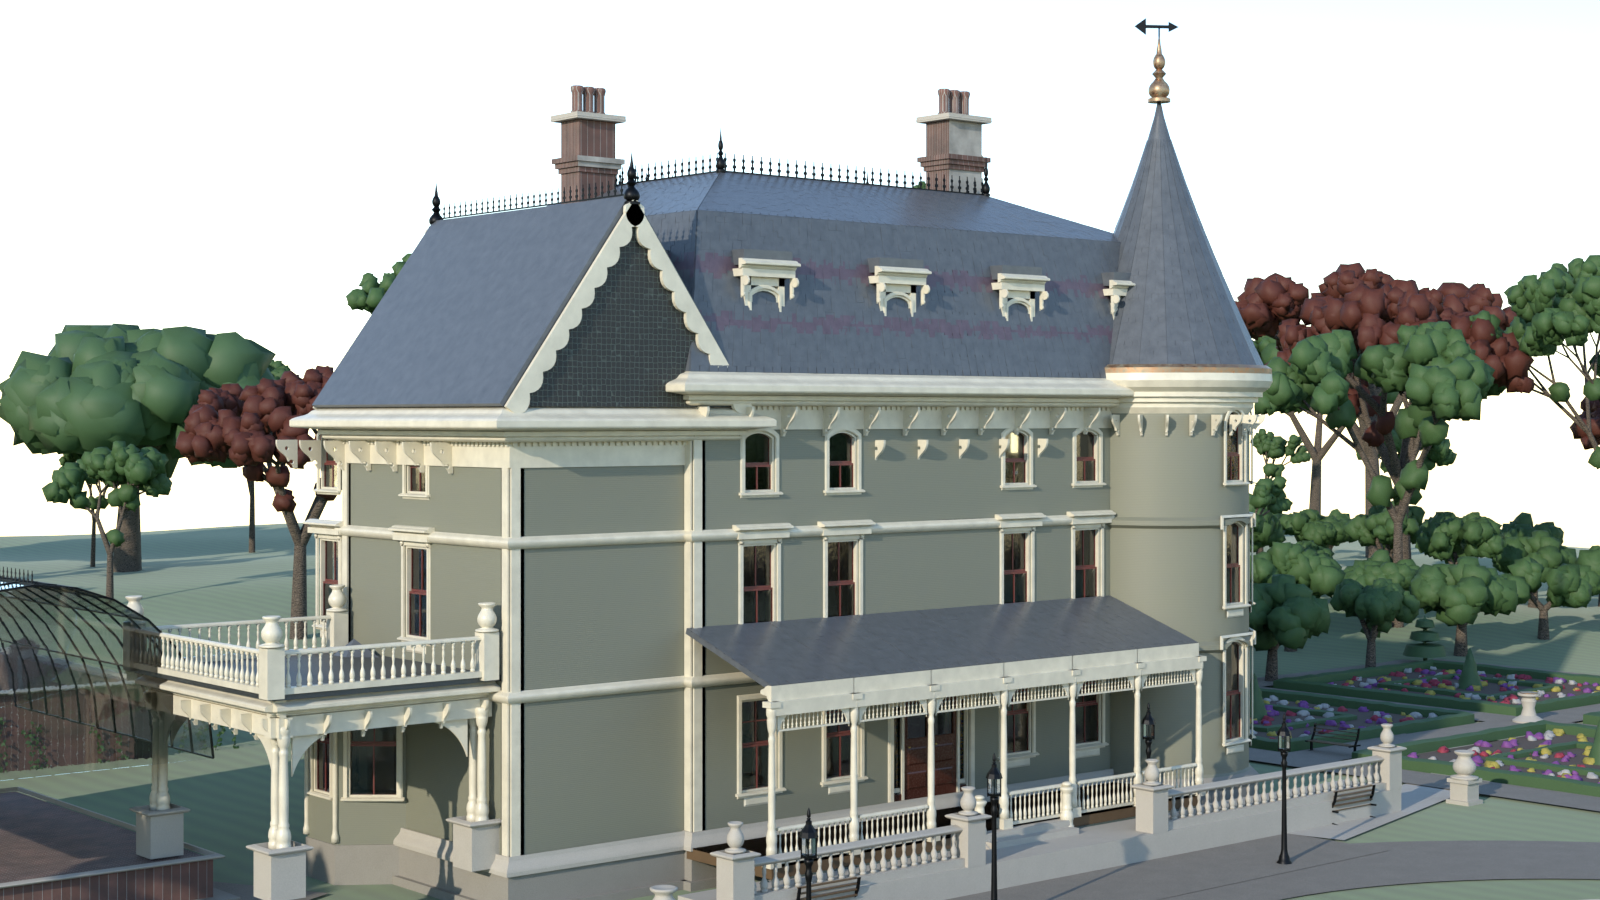
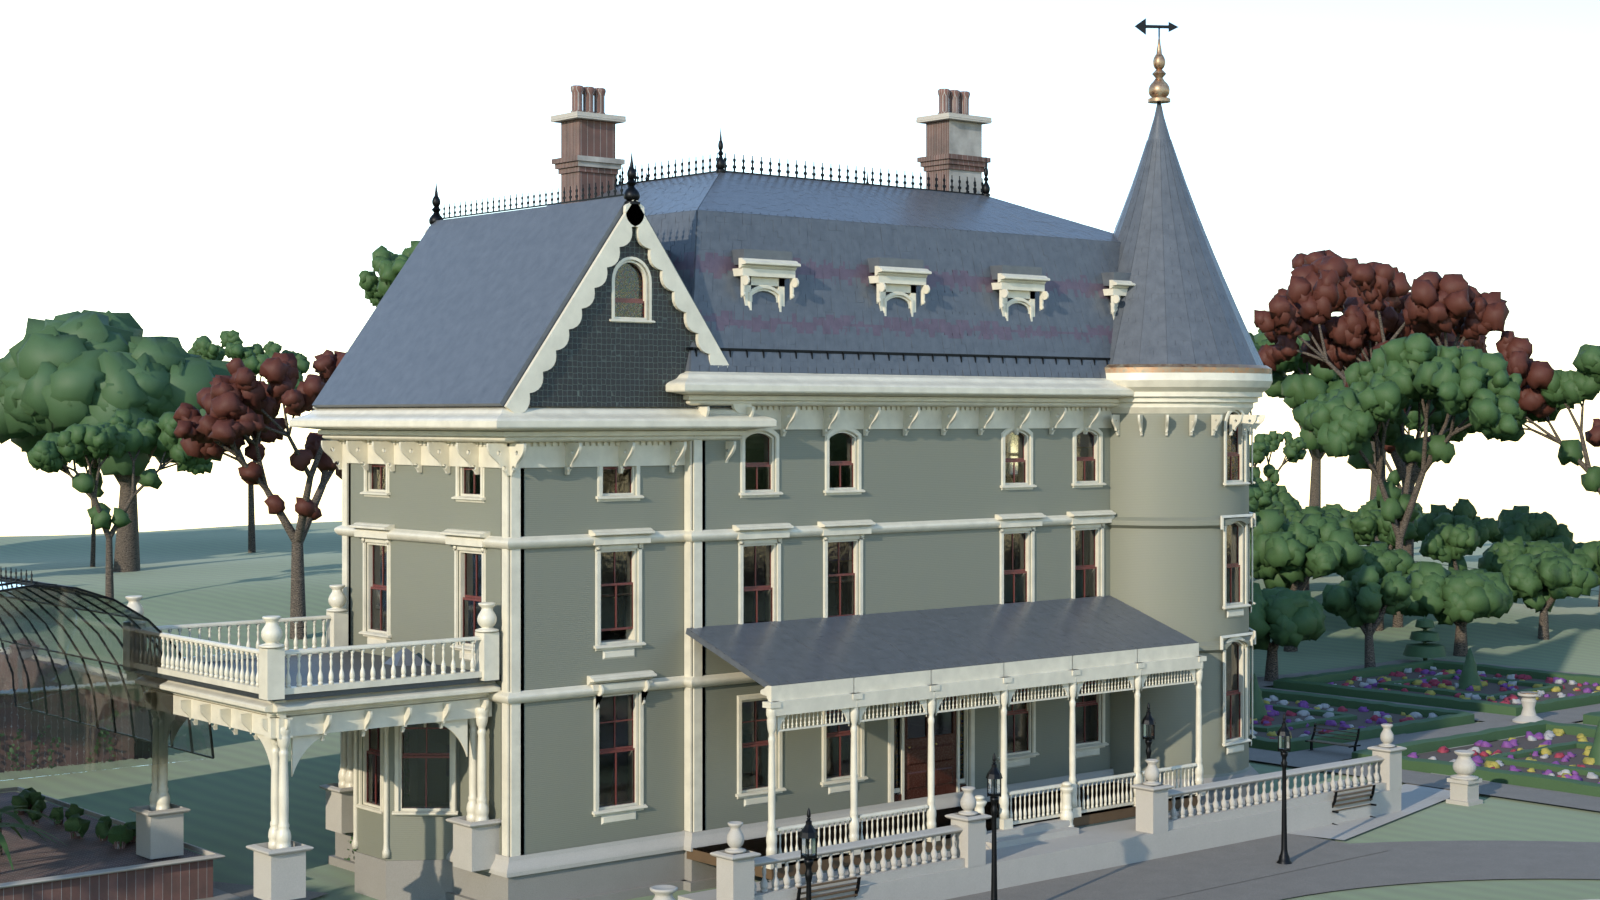
Add a camera obstruction check, and move the two views it caught
Twice a view was set up at a plausible-looking coordinate that turned out to
be inside a tree canopy, and the render came back as a wall of leaves. A
camera has no collision, so nothing complains: the only symptom is the image,
half an hour later.

scripts/check_cameras.py fires a grid of rays through each view's frame and
reports what fraction of it is filled by geometry closer than a fifth of the
distance to the subject. The garden view came back 73% blocked by a belt
tree; it and the stables view now stand inside their subjects' own tree-free
zones. All seven views report a clear frame.

A first attempt measured only the nearest hit along five rays, which passed
the garden view at 3.01 m - just over the threshold, and completely wrong.
Coverage is the thing that matters, not proximity.

diff --git a/scripts/check_cameras.py b/scripts/check_cameras.py
@@ -1,0 +1,70 @@
+"""
+Check no camera is standing inside something.
+
+Twice now a view has been set up at a plausible-looking coordinate that turned
+out to be inside a tree canopy, and the render came back as a wall of leaves.
+A camera has no collision, so nothing complains: the only symptom is the
+image. This casts a ray forward from each view and reports anything closer
+than a sensible near distance, plus how much of the frame it blocks.
+"""
+import os, sys, math
+sys.path.insert(0, os.path.dirname(os.path.dirname(os.path.abspath(__file__))))
+import bpy
+from mathutils import Vector
+from victorian_estate import build as vb
+
+#: A hit closer than this fraction of the distance to the subject counts as
+#: foreground, and too much foreground means the view is looking at a thing
+#: rather than through it.  An absolute floor stops close-up views (the
+#: veranda) from flagging their own subject.
+FOREGROUND = 0.20
+FLOOR = 2.5
+MAX_BLOCKED = 0.35     # fraction of the frame allowed to be foreground
+GRID = (9, 7)          # rays across and down the frame
+
+vb.build_all()
+deps = bpy.context.evaluated_depsgraph_get()
+scene = bpy.context.scene
+
+fails = 0
+print(f"{'view':<12s} {'nearest fg':>12s}  {'frame':>7s}  blocked by")
+for view in vb.VIEWS:
+    eye = Vector(view.shot.location)
+    target = Vector(view.shot.target)
+    forward = (target - eye).normalized()
+    right = forward.cross(Vector((0, 0, 1)))
+    if right.length < 1e-6:
+        right = Vector((1, 0, 0))
+    right.normalize()
+    up = right.cross(forward)
+    spread = math.atan(view.shot.sensor / (2 * view.shot.lens))
+
+    subject = (target - eye).length
+    near = max(FLOOR, FOREGROUND * subject)
+
+    nearest, culprit, blocked, total = 1e9, "", 0, 0
+    cols, rows = GRID
+    for ix in range(cols):
+        for iy in range(rows):
+            dx = (ix / (cols - 1)) * 2 - 1
+            dy = (iy / (rows - 1)) * 2 - 1
+            d = (forward + right * (dx * math.tan(spread))
+                 + up * (dy * math.tan(spread) * 0.56)).normalized()
+            total += 1
+            hit, loc, _, _, obj, _ = scene.ray_cast(deps, eye, d)
+            if not hit:
+                continue
+            dist = (loc - eye).length
+            if dist < near:
+                blocked += 1
+                if dist < nearest:
+                    nearest, culprit = dist, obj.name
+    frac = blocked / total
+    ok = frac <= MAX_BLOCKED
+    fails += not ok
+    print(f"{view.key:<12s} {nearest if blocked else float('nan'):12.2f}  "
+          f"{frac:7.0%}  {culprit if not ok else ''}")
+
+print(f"\nviews with more than {MAX_BLOCKED:.0%} of the frame in foreground: "
+      f"{fails}")
+sys.exit(1 if fails else 0)

diff --git a/victorian_estate/build.py b/victorian_estate/build.py
@@ -50,9 +50,11 @@ VIEWS = (
          elevation=20, rotation=18, exposure=-0.58),
     View(Shot("Cam.Estate", (96.0, 118.0, 86.0), (-4.0, 6.0, 6.0), lens=52),
          elevation=33, rotation=126, exposure=-0.45, sky=0.50, energy=4.8),
-    View(Shot("Cam.Garden", (-62.0, -18.0, 16.0), (-24.0, 6.0, 10.0), lens=48),
-         elevation=24, rotation=232, exposure=-0.55),
-    View(Shot("Cam.Stables", (-48.0, -54.0, 14.0), (-24.0, -26.0, 6.0), lens=50),
+    # Stood inside the parterre's own tree-free zone, looking back across it
+    # to the house: outside that zone the belt planting closes over the view.
+    View(Shot("Cam.Garden", (-48.0, -4.0, 9.0), (-16.0, 3.5, 7.5), lens=42),
+         elevation=26, rotation=236, exposure=-0.55),
+    View(Shot("Cam.Stables", (-38.5, -40.0, 9.5), (-24.0, -22.0, 5.0), lens=44),
          elevation=23, rotation=286, exposure=-0.55),
     # Under the veranda roof, so the key has to come in almost horizontally.
     View(Shot("Cam.Veranda", (7.2, 19.5, 2.3), (-4.0, 8.0, 3.2), lens=34),
